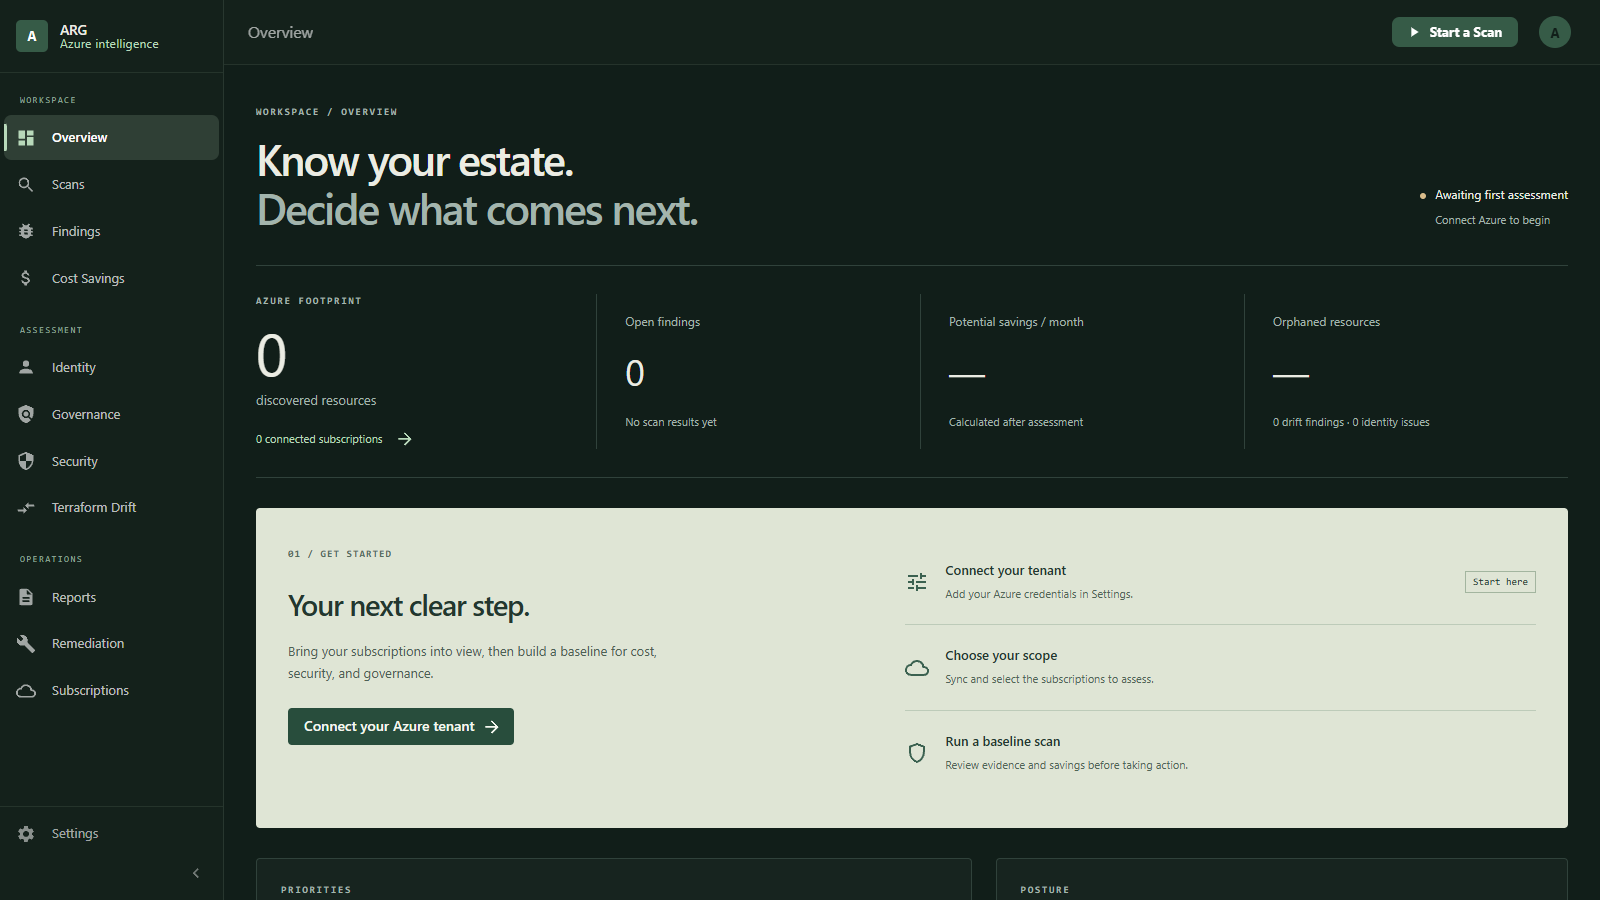
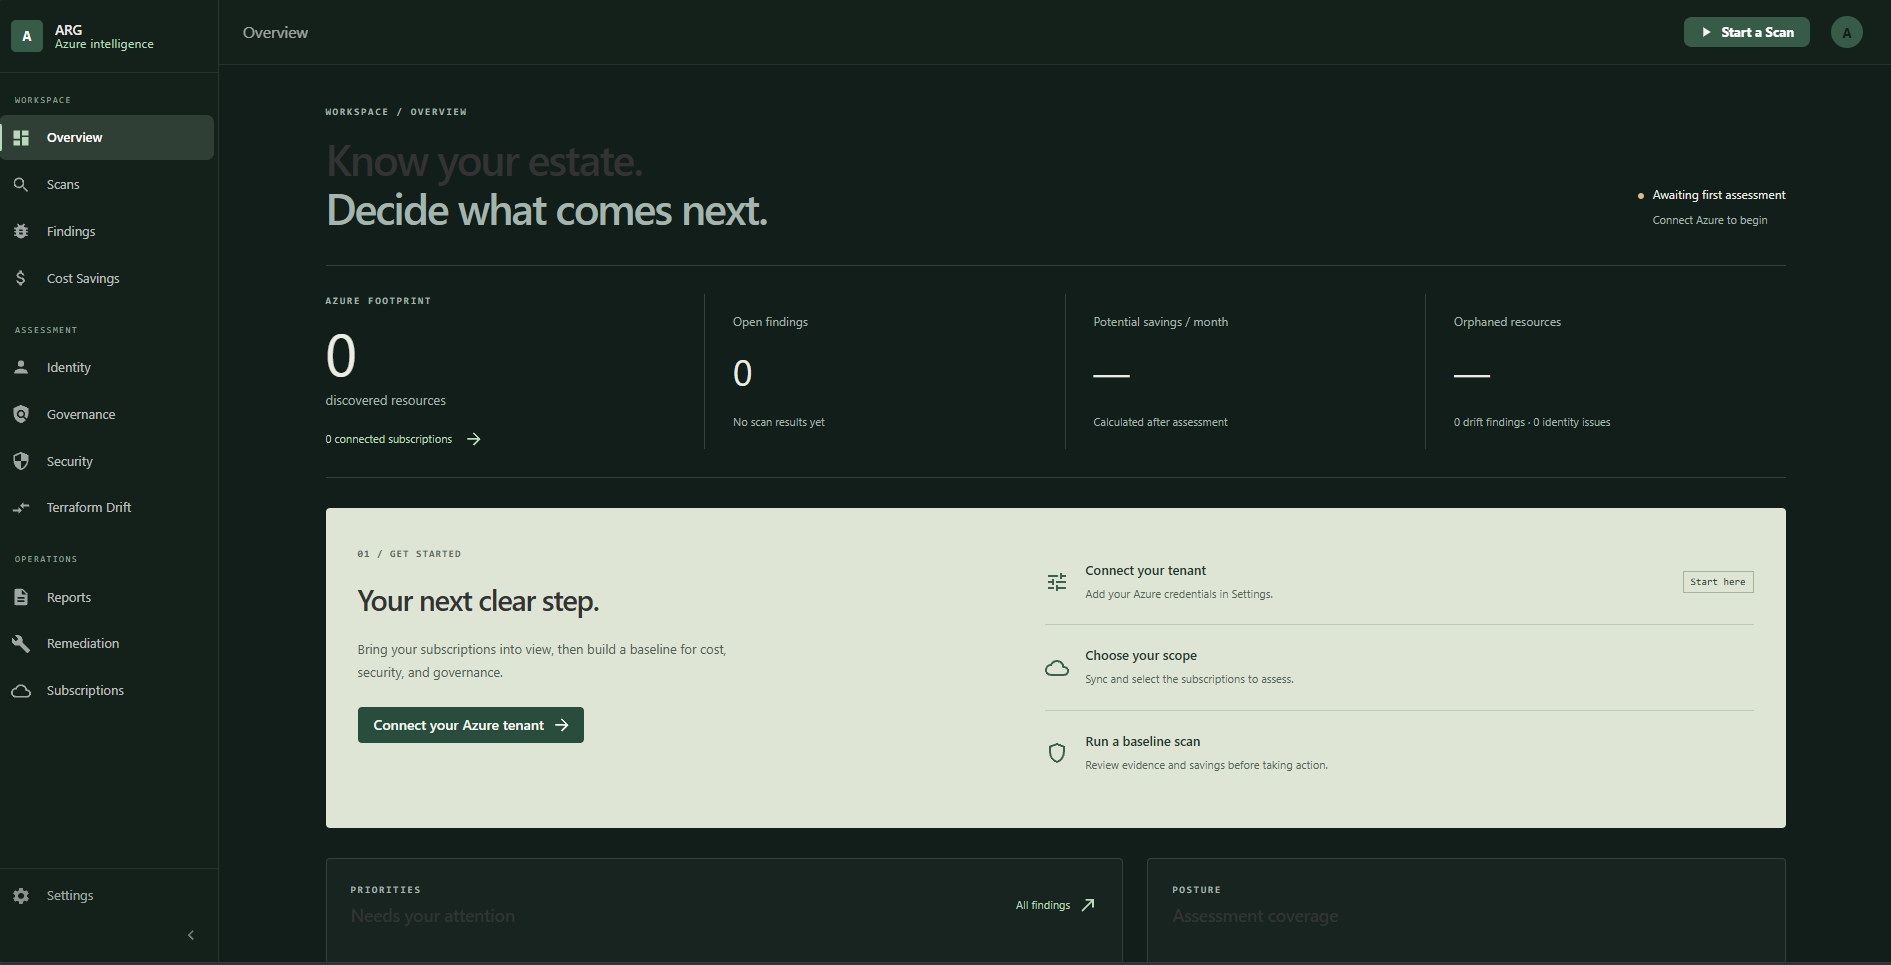
docs: scans and reports screenshots; how to connect an Azure subscription
- README: overview, scans and reports screenshots of the Docker UI
- README: step-by-step service principal, roles, optional Graph permissions, tenant and subscription registration

diff --git a/README.md b/README.md
@@ -21,6 +21,8 @@
 | Sign in | Overview |
 |---|---|
 | ![ARG sign-in page](docs/images/login.png) | ![ARG overview dashboard before the first scan](docs/images/dashboard.png) |
+| **Scans** | **Reports** |
+| ![ARG scans page with scan history](docs/images/scans.png) | ![ARG reports page with report depth and format options](docs/images/reports.png) |
 | **Findings** | **Settings** |
 | ![ARG findings page with severity and status filters](docs/images/findings.png) | ![ARG settings page with profile, password and integrations](docs/images/settings.png) |
 
@@ -453,6 +455,47 @@ az ad sp create-for-rbac --name "arg-scanner" --role Reader --scopes /subscripti
 ```
 
 This prints a `appId` (client ID) and `password` (client secret) - enter those along with your Azure AD tenant ID into ARG's Settings → Azure Tenants page after logging in. The secret is encrypted with AES-256-GCM before being stored.
+
+### Connect your Azure subscription
+
+A scan needs a registered tenant **and** at least one registered subscription. Without them every scan fails with
+"No active subscriptions found for scan".
+
+1. **Create the service principal** (Azure CLI, signed in as someone who can assign roles on the subscription):
+
+   ```bash
+   az login
+   az account show --query "{tenant:tenantId, subscription:id, name:name}" -o table
+   az ad sp create-for-rbac --name "arg-scanner" --role Reader --scopes /subscriptions/<subscription-id>
+   ```
+
+   Note `appId` (client ID), `password` (client secret) and `tenant` from the output. The secret is shown only once.
+
+2. **Add the other read-only roles** for cost and security findings:
+
+   ```bash
+   az role assignment create --assignee <appId> --role "Cost Management Reader" --scope /subscriptions/<subscription-id>
+   az role assignment create --assignee <appId> --role "Security Reader" --scope /subscriptions/<subscription-id>
+   ```
+
+   Repeat steps 1-2 per subscription (or assign the roles once on a management group).
+
+3. **Optional - identity scanners.** In Entra ID, App registrations → `arg-scanner` → API permissions, add these
+   **Application** Microsoft Graph permissions and click **Grant admin consent**: `User.Read.All`,
+   `AuditLog.Read.All`, `Reports.Read.All`, `RoleManagement.Read.Directory`, `Application.Read.All`. Without them
+   the identity scanners are skipped, not failed.
+
+4. **Register the tenant in ARG:** Settings → Azure Tenants → **Register Tenant**. Enter a display name, the
+   Azure tenant ID, the client ID (`appId`) and client secret (`password`). Tick "Microsoft Graph API permissions
+   granted" only if you did step 3.
+
+5. **Register the subscription:** Subscriptions → **Register Subscription** → display name, Azure subscription ID, and the tenant
+   from step 4.
+
+6. **Scan:** Scans → **Start a Scan**. Findings, cost savings and the overview fill in when it completes; Reports
+   then generates PDF / Excel / CSV / JSON output.
+
+All access is read-only. Remediation scripts are generated for review and never run against Azure by ARG.
 
 ---
 
